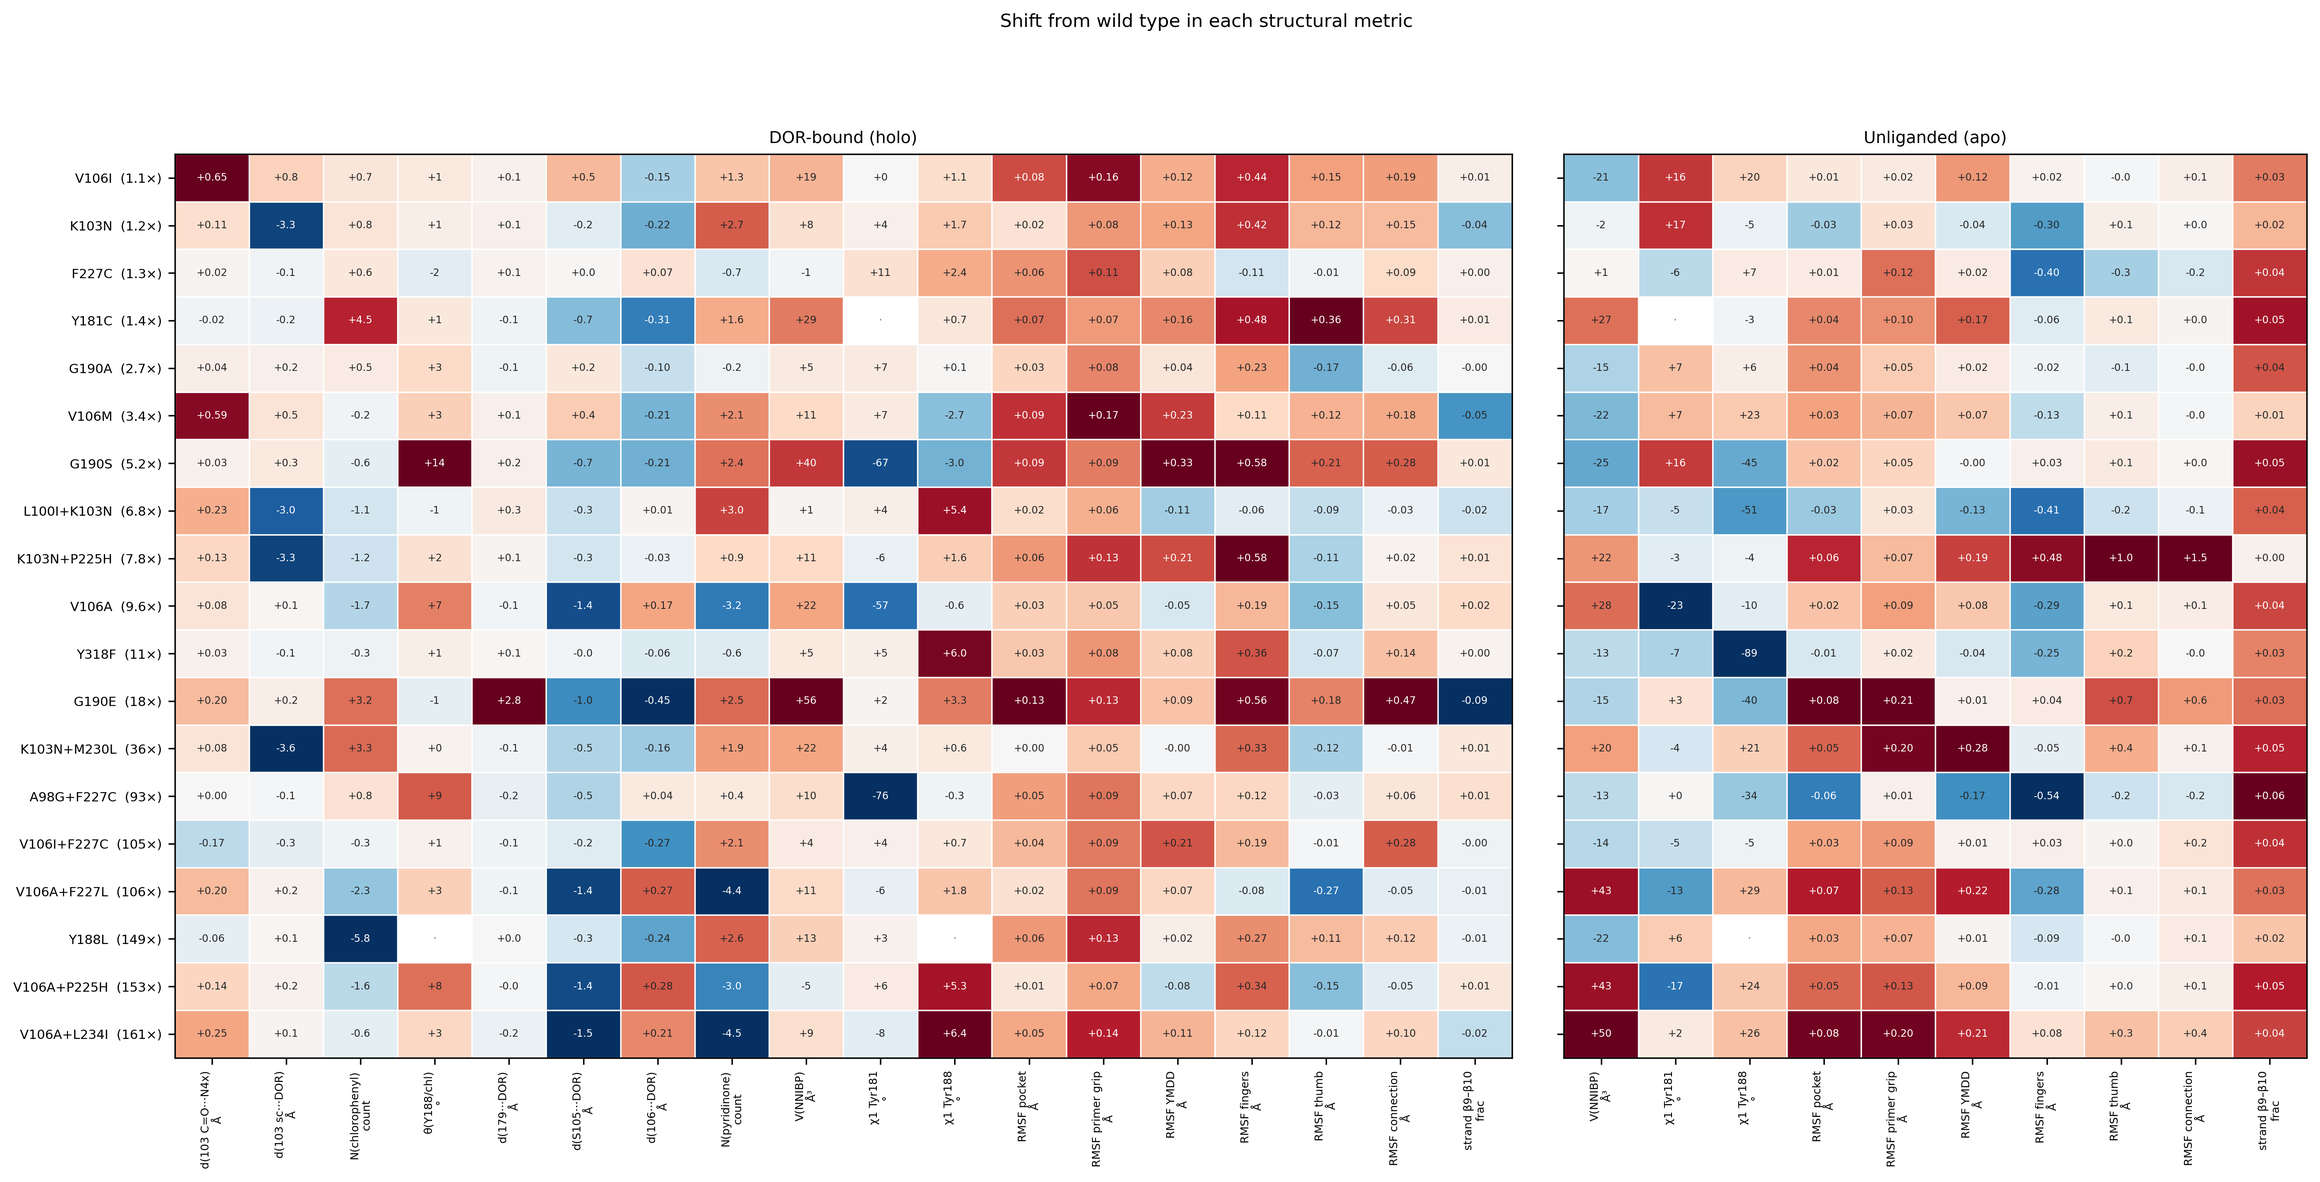
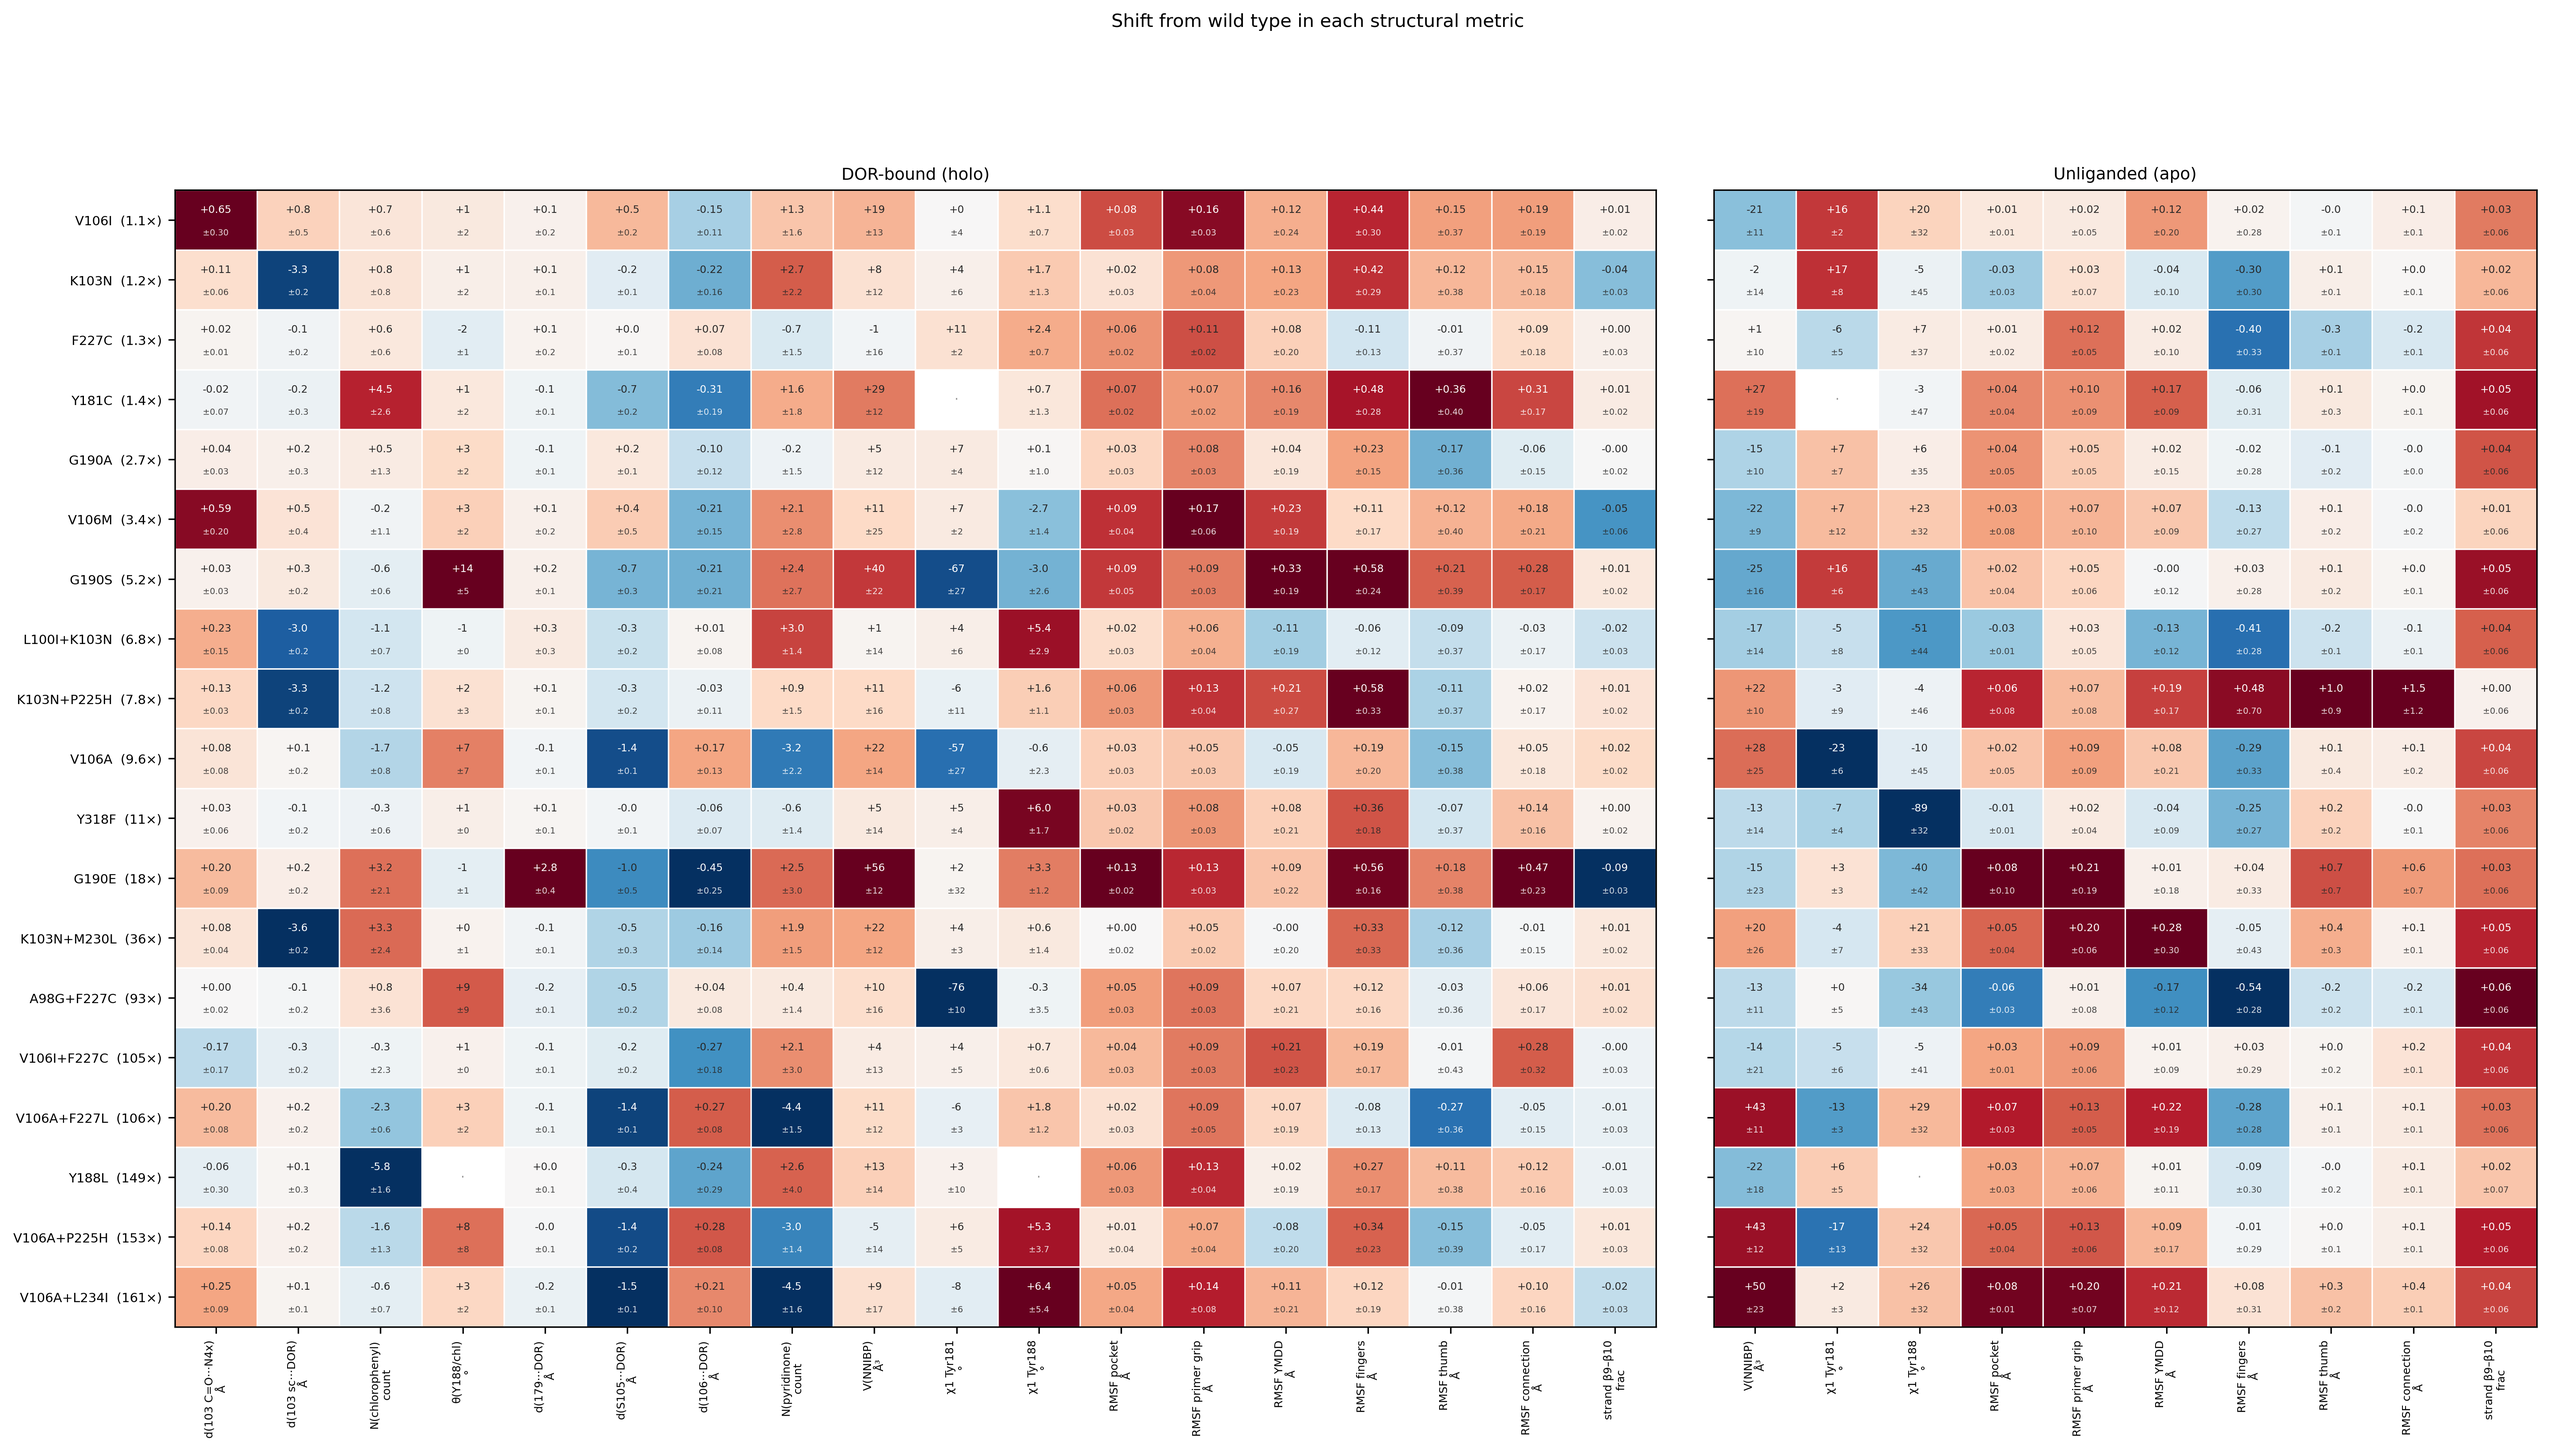
Put the error on every heatmap cell
Each cell now prints the shift from WT above its standard error. The error
combines the genotype's SEM over three replicates with the wild-type
reference's own SEM in quadrature: the reference is a three-replicate mean
too, so quoting only the genotype's error understates every cell. Circular
metrics get a circular SEM.

This changes what the figure says. Only 68 of 339 holo cells (20%) and 25 of
188 apo cells (13%) exceed twice their error, so most of the panel is
consistent with no change once three replicates are accounted for -- which is
itself the honest answer to the reviewer's question about whether structural
change tracks phenotype.

It also retracts a claim made from the colour-only version. K103N+P225H's apo
thumb and connection RMSF, which looked like the largest protein-level signal
in the figure, are +1.04 +/- 0.91 and +1.53 +/- 1.16 -- 1.1x and 1.3x their
error, not significant, and carried by a single replicate. G190E's holo pocket
expansion survives at 4.6x (+55.8 +/- 12.1) and its residue-179 shift at 6.4x
(+2.84 +/- 0.44), as does the V106A+L234I apo expansion at 2.2x; V106A's own
apo expansion does not (1.1x).

Changed region(s): [[0.0, 0.093, 0.9992, 0.9612], [0.4372, 0.0, 0.5933, 0.031]]

diff --git a/src/nnrti/cli/plot_structural_heatmap.py b/src/nnrti/cli/plot_structural_heatmap.py
@@ -6,7 +6,10 @@ structural metrics, because they are currently spread across dense tables and
 patterns in DOR contacts, pocket size and remodelling are hard to see.
 
 Each cell is a genotype's shift from wild type IN ITS OWN UNITS, printed in
-the cell. Colour is scaled within each column, to that metric's largest shift
+the cell above its standard error. That error combines the genotype's SEM over
+three replicates with the wild-type reference's own SEM in quadrature, since
+the reference is a three-replicate mean too and quoting only the genotype's
+error would understate every cell. Colour is scaled within each column, to that metric's largest shift
 across the panel, so a column can be read down at a glance; it carries no
 meaning across columns, and the number is the quantity.
 
@@ -95,39 +98,57 @@ def _style():
     return plt
 
 
+def _circ_mean_sem(deg: np.ndarray) -> tuple[float, float]:
+    """Circular mean and its standard error, degrees."""
+    r = np.deg2rad(np.asarray(deg, float))
+    r = r[np.isfinite(r)]
+    if r.size == 0:
+        return np.nan, np.nan
+    s, c = np.sin(r).mean(), np.cos(r).mean()
+    mean = float(np.rad2deg(np.arctan2(s, c)))
+    R = float(np.hypot(s, c))
+    sd = float(np.rad2deg(np.sqrt(-2.0 * np.log(max(R, 1e-12)))))
+    return mean, sd / np.sqrt(r.size)
+
+
 def wt_referenced(per_rep: pd.DataFrame, state: str,
-                  metrics: dict[str, str]) -> pd.DataFrame:
-    """Shift from WT, in each metric's own units."""
+                  metrics: dict[str, str]) -> tuple[pd.DataFrame, pd.DataFrame]:
+    """Shift from WT in each metric's own units, and its standard error.
+
+    The error on a shift is not the genotype's error alone: the WT reference
+    is itself a mean over three replicates and carries its own uncertainty, so
+    the two are added in quadrature. Reporting only the genotype's SEM would
+    understate every cell.
+    """
     d = per_rep[per_rep.structure_type == state]
-    raw = {}
+    raw, err = {}, {}
     for label, col in metrics.items():
         if col not in d or d[col].isna().all():
             continue
         if label in CIRCULAR:
-            rad = d.assign(_r=np.deg2rad(d[col]))
-            means = rad.groupby("genotype").apply(
-                lambda g: np.rad2deg(np.arctan2(np.sin(g._r).mean(),
-                                                np.cos(g._r).mean())),
-                include_groups=False)
+            stats = d.groupby("genotype")[col].apply(
+                lambda v: pd.Series(_circ_mean_sem(v.to_numpy()),
+                                    index=["mean", "sem"]))
+            stats = stats.unstack()
         else:
-            means = d.groupby("genotype")[col].mean()
-        wt = means.get("WT")
-        if wt is None or not np.isfinite(wt):
+            g = d.groupby("genotype")[col]
+            stats = pd.DataFrame({"mean": g.mean(), "sem": g.sem()})
+        if "WT" not in stats.index or not np.isfinite(stats.loc["WT", "mean"]):
             continue
+        wt_mean, wt_sem = stats.loc["WT", "mean"], stats.loc["WT", "sem"]
         if label in CIRCULAR:
             # Shortest rotation, so a dihedral that moved 82 degrees is never
             # reported as having moved 278 the other way round.
-            delta = ((means - wt + 180.0) % 360.0) - 180.0
+            delta = ((stats["mean"] - wt_mean + 180.0) % 360.0) - 180.0
         else:
-            delta = means - wt
-        # A metric that never moves has nothing to show and no scale to show it
-        # on; drop it rather than plot an all-zero column.
-        if not np.isfinite(delta.drop(index="WT", errors="ignore")).any():
-            continue
-        if float(np.nanmax(np.abs(delta.drop(index="WT", errors="ignore")))) == 0.0:
+            delta = stats["mean"] - wt_mean
+        sem = np.sqrt(stats["sem"].to_numpy() ** 2 + float(wt_sem) ** 2)
+        body = delta.drop(index="WT", errors="ignore")
+        if not np.isfinite(body).any() or float(np.nanmax(np.abs(body))) == 0.0:
             continue
         raw[label] = delta
-    return pd.DataFrame(raw)
+        err[label] = pd.Series(sem, index=stats.index)
+    return pd.DataFrame(raw), pd.DataFrame(err)
 
 
 def _decimals(largest: float) -> int:
@@ -157,22 +178,25 @@ def main(argv: list[str] | None = None) -> int:
     fold = dict(zip(man.mutation, man.fold_reduction))
 
     all_metrics = {**HOLO_METRICS, **POCKET_METRICS, **PROTEIN_METRICS}
-    raw_holo = wt_referenced(per_rep, "holo", all_metrics)
+    raw_holo, sem_holo = wt_referenced(per_rep, "holo", all_metrics)
     apo_metrics = {**POCKET_METRICS, **PROTEIN_METRICS}
-    raw_apo = wt_referenced(per_rep, "apo", apo_metrics)
+    raw_apo, sem_apo = wt_referenced(per_rep, "apo", apo_metrics)
 
     order = sorted((g for g in raw_holo.index if g != "WT"),
                    key=lambda g: (np.nan_to_num(fold.get(g, np.nan), nan=-1)))
     raw_holo = raw_holo.loc[order]
     raw_apo = raw_apo.reindex(order)
+    sem_holo = sem_holo.reindex(order)
+    sem_apo = sem_apo.reindex(order)
 
-    panels = [("DOR-bound (holo)", raw_holo), ("Unliganded (apo)", raw_apo)]
+    panels = [("DOR-bound (holo)", raw_holo, sem_holo),
+              ("Unliganded (apo)", raw_apo, sem_apo)]
     widths = [p[1].shape[1] for p in panels]
     fig, axes = plt.subplots(
-        1, 2, figsize=(0.62 * sum(widths) + 3.4, 0.34 * len(order) + 2.4),
+        1, 2, figsize=(0.70 * sum(widths) + 3.4, 0.46 * len(order) + 2.4),
         gridspec_kw={"width_ratios": widths, "wspace": 0.05})
 
-    for ax, (title, raw) in zip(axes, panels):
+    for ax, (title, raw, sem) in zip(axes, panels):
         # Colour is scaled per column: each metric spans its own largest shift,
         # so the gradient compares genotypes WITHIN a metric and never across.
         scaled = raw.copy().astype(float)
@@ -192,9 +216,15 @@ def main(argv: list[str] | None = None) -> int:
                             color="0.6", fontsize=7)
                     continue
                 shade = abs(float(scaled.iat[i, j]))
-                ax.text(j, i, f"{v:+.{dec[c]}f}", ha="center", va="center",
-                        fontsize=5.5,
-                        color="white" if shade > 0.65 else "0.15")
+                colour = "white" if shade > 0.65 else "0.15"
+                e = sem.iat[i, j] if sem is not None else np.nan
+                # Value and its error on separate lines: one line of
+                # "+56 +/- 12" per cell is unreadable at this density.
+                ax.text(j, i - 0.17, f"{v:+.{dec[c]}f}", ha="center",
+                        va="center", fontsize=5.6, color=colour)
+                if np.isfinite(e):
+                    ax.text(j, i + 0.21, f"\u00b1{e:.{dec[c]}f}", ha="center",
+                            va="center", fontsize=4.6, color=colour, alpha=0.85)
 
         ax.set_xticks(range(raw.shape[1]))
         ax.set_xticklabels([f"{c}\n{UNITS.get(c, '')}" for c in raw.columns],
@@ -220,6 +250,8 @@ def main(argv: list[str] | None = None) -> int:
 
     raw_holo.round(3).to_csv(out / "tables" / "figure3_holo_shift_vs_wt.csv")
     raw_apo.round(3).to_csv(out / "tables" / "figure3_apo_shift_vs_wt.csv")
+    sem_holo.round(3).to_csv(out / "tables" / "figure3_holo_shift_sem.csv")
+    sem_apo.round(3).to_csv(out / "tables" / "figure3_apo_shift_sem.csv")
 
     z_holo, z_apo = raw_holo, raw_apo
     print(f"holo metrics: {z_holo.shape[1]}, apo metrics: {z_apo.shape[1]}, "
